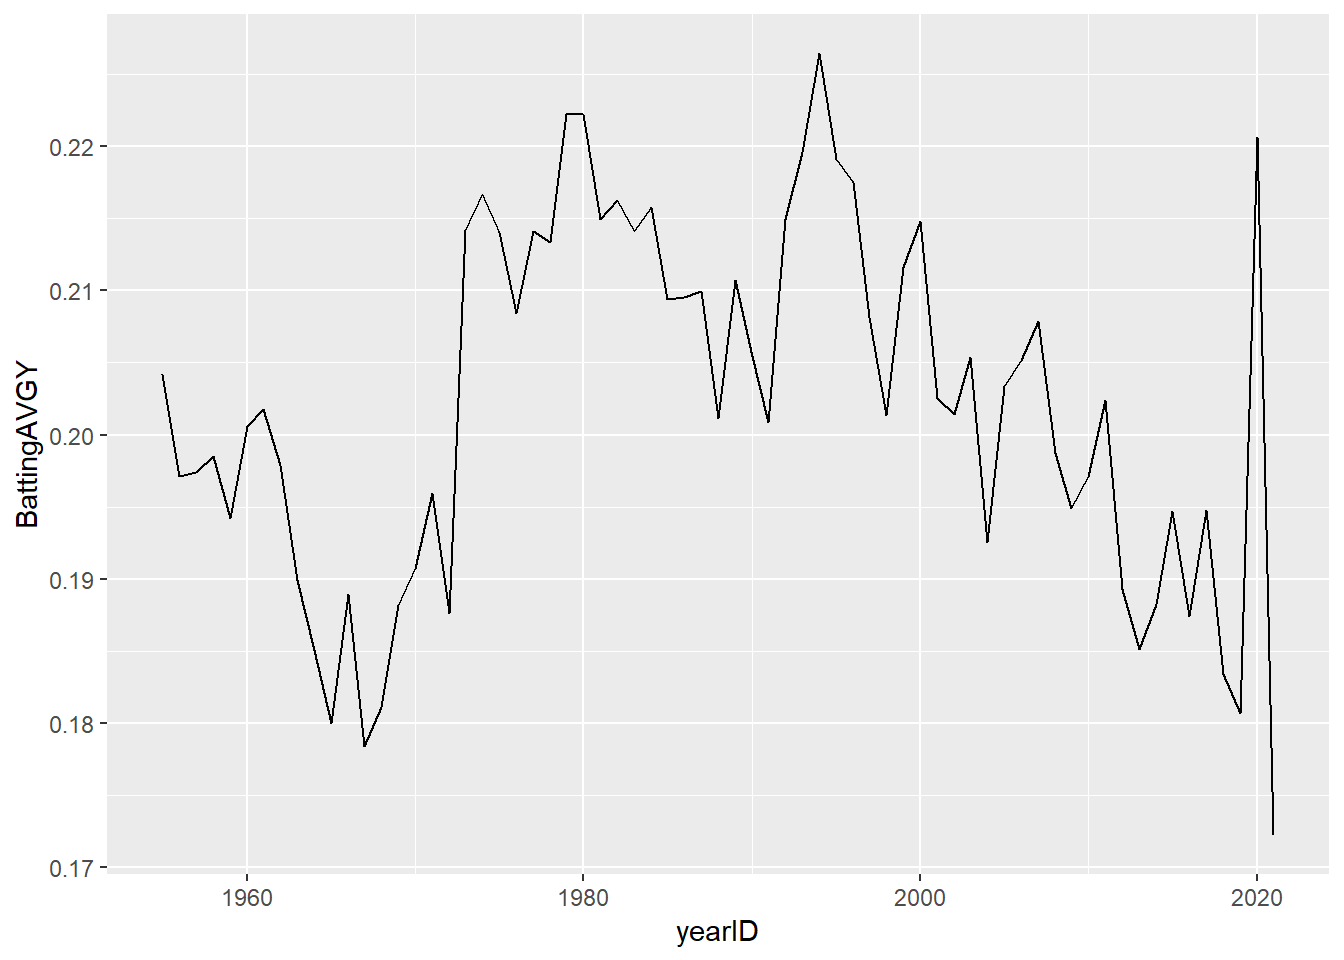
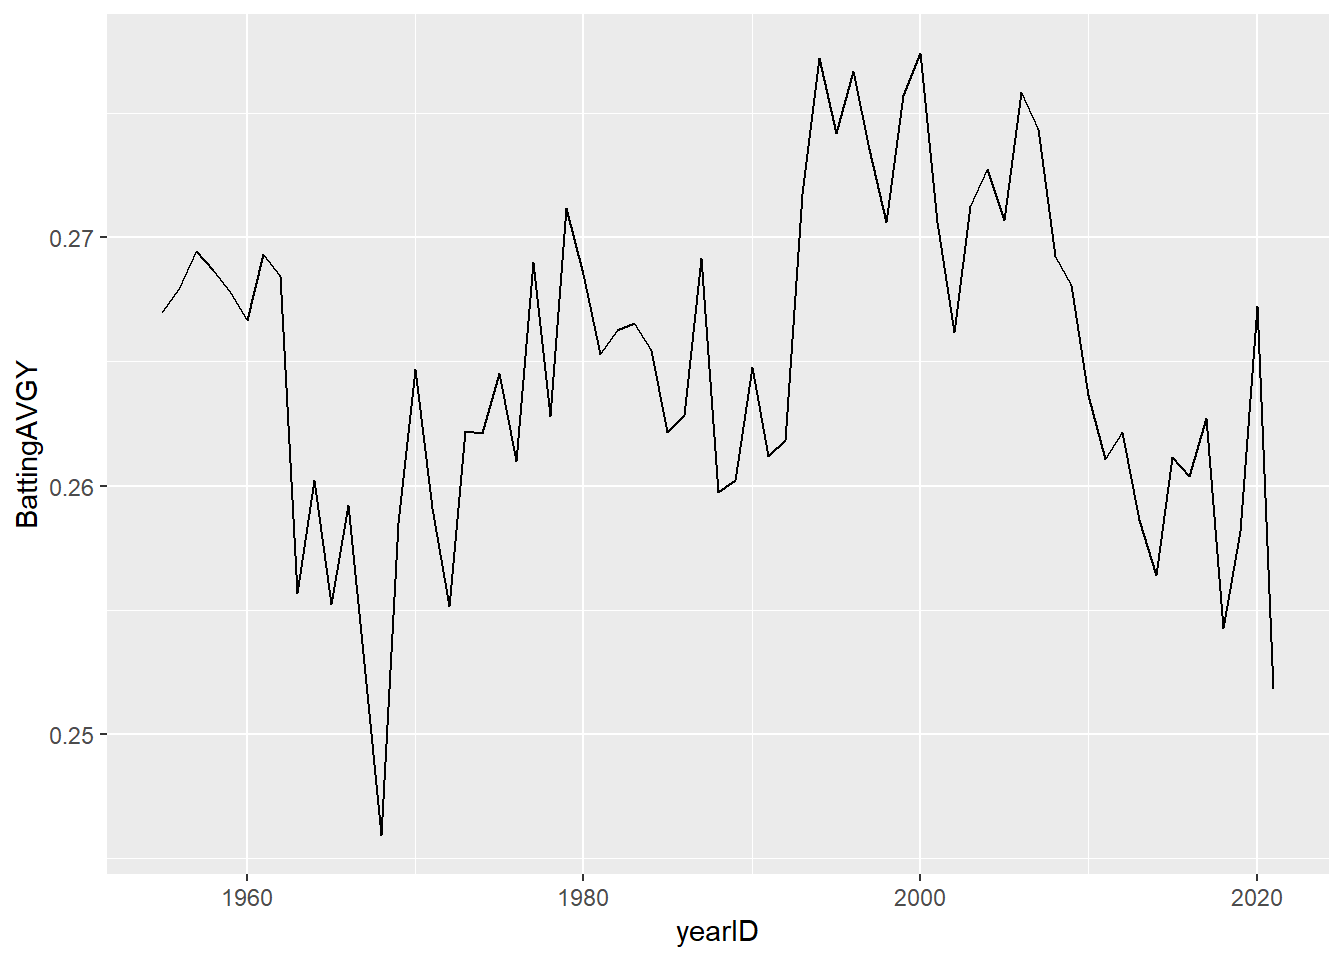
Rendered Version 200 AB

diff --git a/docs/test_commit.html b/docs/test_commit.html
@@ -274,6 +274,7 @@ library(tidyverse)</code></pre>
 class="section level1">
 <h1>Graph of Batting Average over time; top 10 years</h1>
 <pre class="r"><code>Batting %&gt;% 
+  filter(AB &gt;200) %&gt;% 
   mutate(BattingAVG = H/AB) %&gt;% 
   group_by(yearID) %&gt;% 
   na.omit() %&gt;% 
@@ -291,44 +292,44 @@ knitr::kable(Batting_Average_Year %&gt;%
 </thead>
 <tbody>
 <tr class="odd">
+<td align="right">2000</td>
+<td align="right">0.2774184</td>
+</tr>
+<tr class="even">
 <td align="right">1994</td>
-<td align="right">0.2264668</td>
-</tr>
-<tr class="even">
-<td align="right">1980</td>
-<td align="right">0.2222574</td>
-</tr>
-<tr class="odd">
-<td align="right">1979</td>
-<td align="right">0.2222284</td>
-</tr>
-<tr class="even">
-<td align="right">2020</td>
-<td align="right">0.2206794</td>
-</tr>
-<tr class="odd">
-<td align="right">1993</td>
-<td align="right">0.2196015</td>
-</tr>
-<tr class="even">
-<td align="right">1995</td>
-<td align="right">0.2191314</td>
+<td align="right">0.2772283</td>
 </tr>
 <tr class="odd">
 <td align="right">1996</td>
-<td align="right">0.2175238</td>
+<td align="right">0.2766927</td>
 </tr>
 <tr class="even">
-<td align="right">1974</td>
-<td align="right">0.2167011</td>
+<td align="right">2006</td>
+<td align="right">0.2758470</td>
 </tr>
 <tr class="odd">
-<td align="right">1982</td>
-<td align="right">0.2162812</td>
+<td align="right">1999</td>
+<td align="right">0.2757424</td>
 </tr>
 <tr class="even">
-<td align="right">1984</td>
-<td align="right">0.2157666</td>
+<td align="right">2007</td>
+<td align="right">0.2743564</td>
+</tr>
+<tr class="odd">
+<td align="right">1995</td>
+<td align="right">0.2742016</td>
+</tr>
+<tr class="even">
+<td align="right">1997</td>
+<td align="right">0.2735748</td>
+</tr>
+<tr class="odd">
+<td align="right">2004</td>
+<td align="right">0.2727717</td>
+</tr>
+<tr class="even">
+<td align="right">1993</td>
+<td align="right">0.2717308</td>
 </tr>
 </tbody>
 </table>
